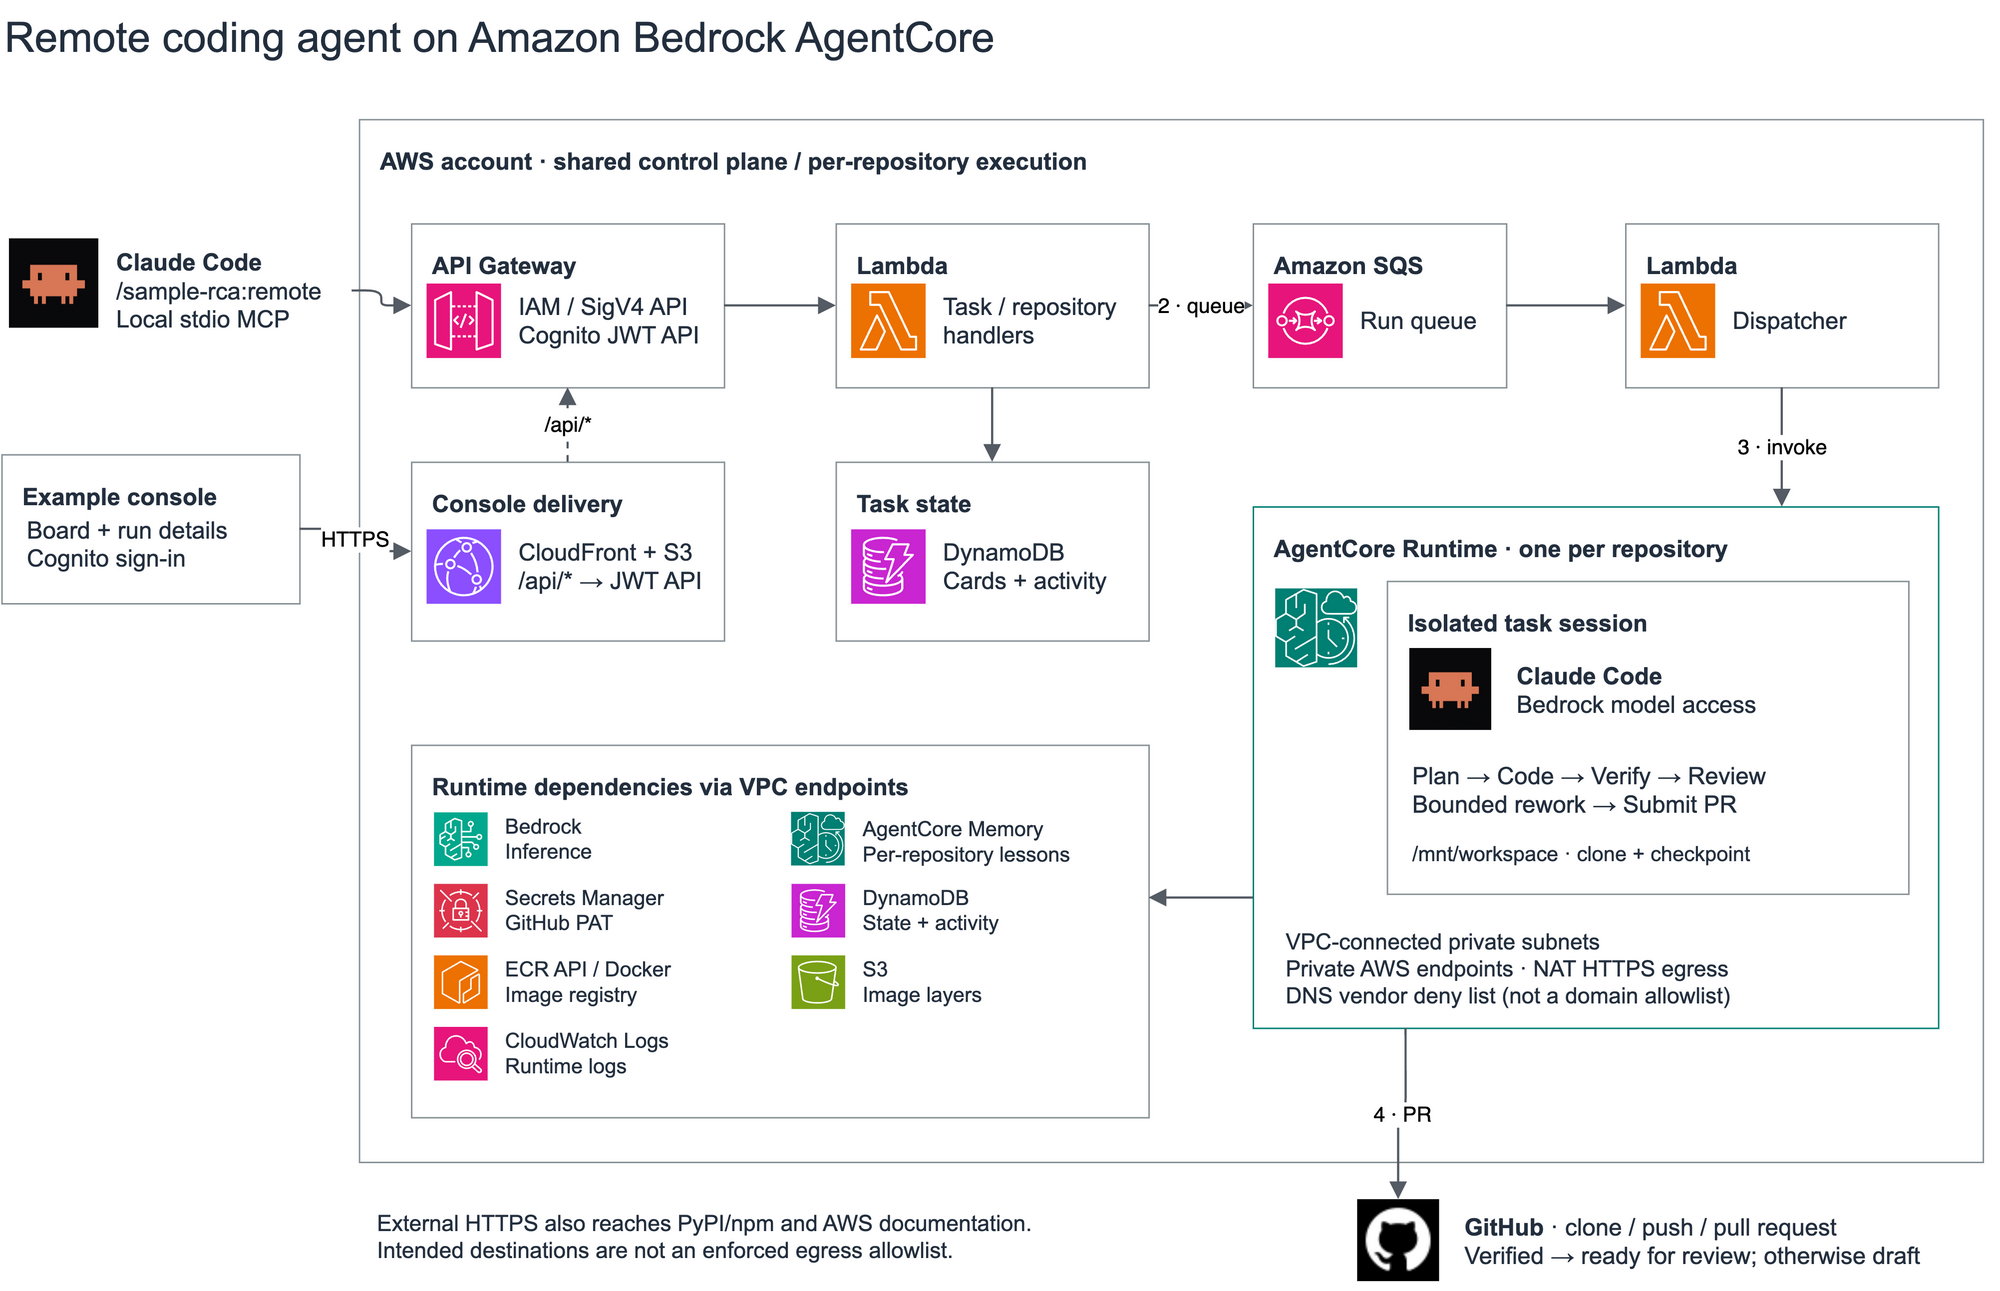
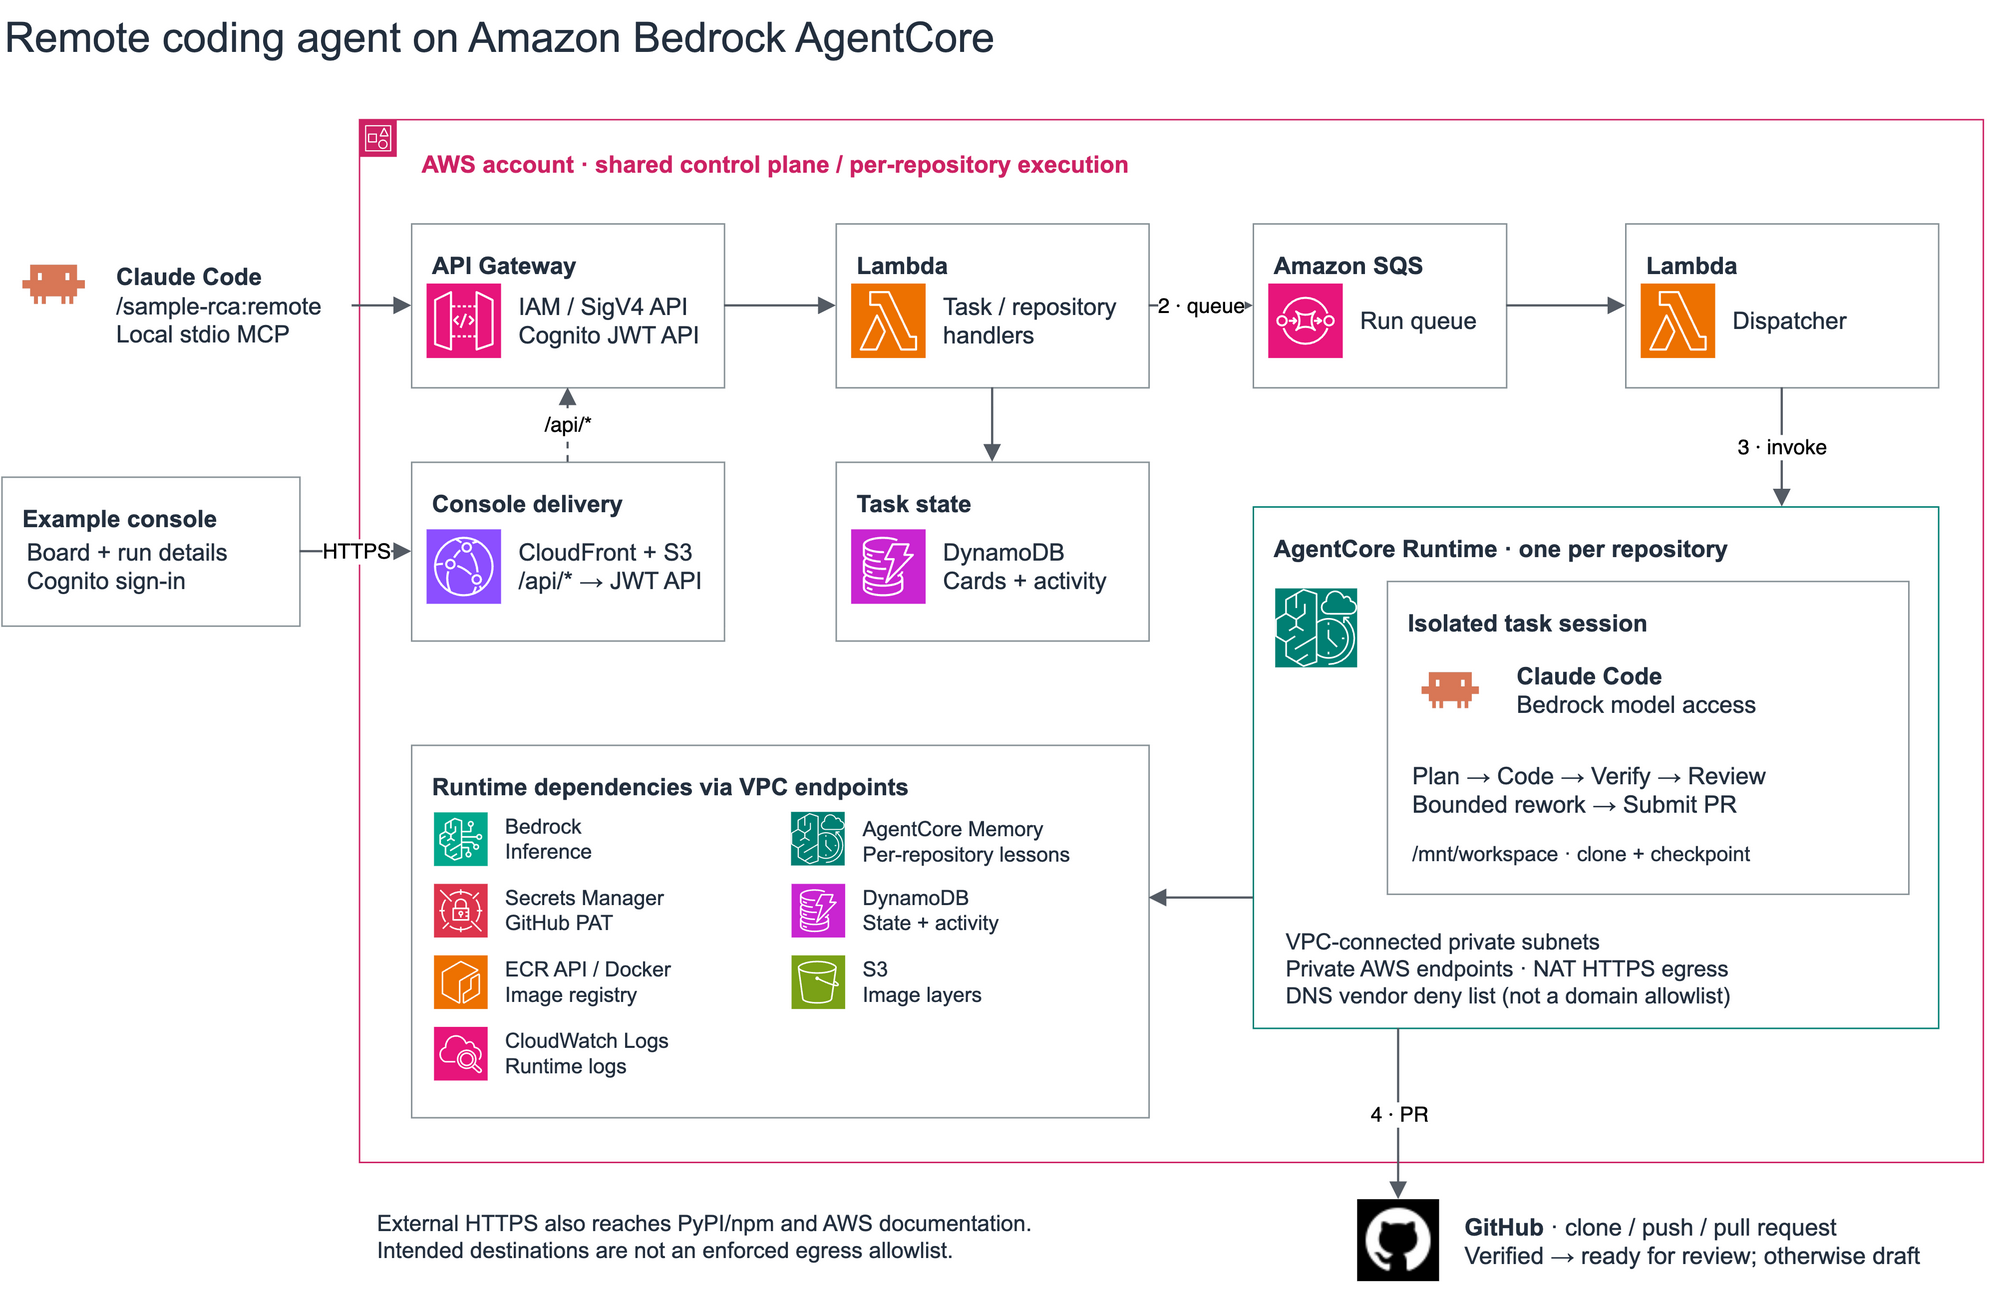
Clarify demo loop and straighten architecture connectors
Show task composition and Add card before dispatch, and separate the completed run from replay. Use the AWS Account group and transparent Claude artwork so the architecture follows the requested visual conventions.

diff --git a/assets/capture-preview.py b/assets/capture-preview.py
@@ -7,6 +7,7 @@ Requires Chrome and ffmpeg. No production code or credentials are modified.
 import functools
 import http.server
 import json
+import shutil
 import subprocess
 import tempfile
 import threading
@@ -16,14 +17,15 @@ from pathlib import Path
 from playwright.sync_api import sync_playwright
 
 ROOT = Path(__file__).resolve().parents[1]
-PROMPT = "Add a regression test for an uncovered edge case in an existing utility."
+TITLE = "Test empty input"
+PROMPT = TITLE + "\nAdd an empty-input regression test.\nUse the existing test runner."
 CONFIG = {"configId": "cfg_preview", "repository": "example/utility-tests", "status": "READY"}
 STAGES = ["PLANNING", "CODING", "VERIFYING", "REVIEWING", "SUBMITTING", "SUCCEEDED"]
 COLUMNS = ["PLANNING", "CODING", "VERIFYING", "VERIFYING", "VERIFYING", "DONE"]
 STEPS = ["checkout", "plan", "code", "verify", "review", "submit"]
 
 
-def capture():
+def capture():  # noqa: C901 - Keep the bounded fixture and its linear capture sequence together.
     handler = functools.partial(http.server.SimpleHTTPRequestHandler, directory=ROOT / "web")
     server = http.server.ThreadingHTTPServer(("127.0.0.1", 0), handler)
     threading.Thread(target=server.serve_forever, daemon=True).start()
@@ -31,7 +33,7 @@ def capture():
     card = {
         "cardId": "card_preview",
         "configId": CONFIG["configId"],
-        "title": PROMPT,
+        "title": TITLE,
         "description": PROMPT,
         "storedColumn": "BACKLOG",
         "column": "BACKLOG",
@@ -46,8 +48,10 @@ def capture():
         "steps": [],
     }
     errors = []
+    created = False
 
     def route_request(route):
+        nonlocal created
         url = route.request.url
         if not url.startswith(origin + "/"):
             errors.append("Unexpected external request: " + url)
@@ -62,7 +66,16 @@ def capture():
         if path == "/api/configurations":
             payload = {"items": [CONFIG]}
         elif path == "/api/cards":
-            payload = {"cards": [card]}
+            if route.request.method == "POST":
+                assert not created
+                assert route.request.post_data_json == {
+                    "configId": CONFIG["configId"],
+                    "description": PROMPT,
+                }
+                created = True
+                payload = card
+            else:
+                payload = {"cards": [card] if created else []}
         elif path.endswith("/move"):
             assert route.request.method == "POST"
             assert route.request.post_data_json == {"column": "PLANNING"}
@@ -95,21 +108,66 @@ def capture():
                 sessionStorage.setItem('rca.expiresAt', '9999999999999');
                 document.addEventListener('DOMContentLoaded', () => {
                     const label = document.createElement('div');
+                    label.id = 'preview-label';
                     label.textContent = 'UI PREVIEW · SYNTHETIC DATA · NOT A LIVE AWS RUN';
                     label.style.cssText = 'position:fixed;bottom:0;left:0;right:0;z-index:9999;background:#232f3e;color:white;padding:12px;text-align:center;font:16px Arial';
                     document.body.append(label);
                 });
             """)
             page.goto(origin + "/#/boards/cfg_preview")
-            page.get_by_role("button", name="Start run", exact=True).wait_for()
+            composer = page.get_by_role("textbox", name="New card", exact=True)
+            composer.wait_for()
+            assert page.locator(".card").count() == 0
             frames = []
 
-            def frame():
+            def frame(seconds=4):
                 dest = Path(tmp) / f"frame-{len(frames):02}.png"
                 page.screenshot(path=str(dest))
                 frames.append(dest)
+                for _ in range(round(seconds * 10) - 1):
+                    duplicate = Path(tmp) / f"frame-{len(frames):02}.png"
+                    shutil.copyfile(dest, duplicate)
+                    frames.append(duplicate)
 
-            frame()
+            def slate(title, detail):
+                page.evaluate(
+                    """({title, detail}) => {
+                    const cover = document.createElement('div');
+                    cover.id = 'preview-slate';
+                    cover.style.cssText = 'position:fixed;inset:0 0 42px;z-index:9998;background:#f6f7fa;display:flex;flex-direction:column;align-items:center;justify-content:center;color:#232f3e;font:24px Arial';
+                    const heading = document.createElement('h1');
+                    heading.textContent = title;
+                    const text = document.createElement('p');
+                    text.textContent = detail;
+                    cover.append(heading, text);
+                    document.body.append(cover);
+                }""",
+                    {"title": title, "detail": detail},
+                )
+
+            slate("Create a coding task", "Type the title and description · Add card · Start run")
+            frame(2)
+            page.locator("#preview-slate").evaluate("(node) => node.remove()")
+            frame(1)
+            # Use the textarea's native resize handle so title and description stay visible.
+            bounds = composer.bounding_box()
+            page.mouse.move(bounds["x"] + bounds["width"] - 3, bounds["y"] + bounds["height"] - 3)
+            page.mouse.down()
+            page.mouse.move(
+                bounds["x"] + bounds["width"] - 3, bounds["y"] + bounds["height"] + 90, steps=8
+            )
+            page.mouse.up()
+            composer.focus()
+            for start in range(0, len(PROMPT), 2):
+                composer.press_sequentially(PROMPT[start : start + 2])
+                frame(0.1)
+            assert composer.input_value() == PROMPT
+            frame(2)
+            page.get_by_role("button", name="Add card", exact=True).click()
+            page.get_by_role("button", name="Start run", exact=True).wait_for()
+            assert created and composer.input_value() == ""
+            assert page.locator(".card-title").inner_text() == TITLE
+            frame(2)
             page.get_by_role("button", name="Start run", exact=True).click()
             for i, (status, column) in enumerate(zip(STAGES, COLUMNS, strict=True)):
                 task.update(
@@ -147,6 +205,12 @@ def capture():
                 == task["prUrl"]
             )
             frame()
+            slate(
+                "Task complete",
+                "The next loop creates a new example. It does not move this task back to Backlog.",
+            )
+            frame(5)
+            page.locator("#preview-slate").evaluate("(node) => node.remove()")
             task.update(status="SUCCEEDED_UNVERIFIED")
             task["verifyResult"].update(
                 verified=False,
@@ -159,7 +223,7 @@ def capture():
             page.get_by_text(
                 "No verification command ran; the pull request stays a draft.", exact=True
             ).wait_for()
-            frame()
+            page.screenshot(path=str(ROOT / "assets/console-draft.png"))
             assert not errors, errors
             browser.close()
             subprocess.run(
@@ -169,7 +233,7 @@ def capture():
                     "-loglevel",
                     "error",
                     "-framerate",
-                    "1/4",
+                    "10",
                     "-i",
                     str(Path(tmp) / "frame-%02d.png"),
                     "-filter_complex",

diff --git a/tests/test_docs.py b/tests/test_docs.py
@@ -610,8 +610,11 @@ def test_the_readme_diagram_names_every_vpc_endpoint() -> None:
     )
     assert all(_ENDPOINT_DIAGRAM_WORDS[member] in labels for member in members)
     assert all(name in cells for name in ("claude", "github", "runtime"))
+    assert "grIcon=mxgraph.aws4.group_account;" in cells["account"].get("style", "")
     for cell in cells.values():
         if cell.get("edge") == "1":
+            assert "edgeStyle=none;" in cell.get("style", "")
+            assert cell.find("mxGeometry/Array") is None
             assert cell.get("source") in cells and cell.get("target") in cells
             assert cell.find("mxGeometry").get("relative") == "1"
 

diff --git a/assets/README.md b/assets/README.md
@@ -6,11 +6,15 @@
 It captures the unmodified console from this branch using browser-intercepted API responses.
 The persistent on-screen label makes the distinction visible even when the GIF is shared alone.
 The example repository, task, verification evidence, and PR URL are fixtures. No AWS or GitHub
-requests are made. There is no measured task duration; each captured state displays for four seconds.
+requests are made. There is no measured task duration. Typing plays at 10 frames per second,
+stages pause for four seconds, and the ending holds for five seconds before replaying.
 
-The preview shows one task in Backlog, starting through the actual **Start run** control,
-then Planning, Coding, Verifying, Reviewing, Submitting, and Done. The final frames show
-the run details with an illustrative test result and a separate unverified draft example.
+The preview starts on an empty board and types a title followed by its description into the
+actual composer (the first line becomes the title). It clicks **Add card**, then **Start run**,
+and follows Planning, Coding, Verifying, Reviewing, Submitting, and Done. The final frames show
+the run details with an illustrative test result. A “Task complete” screen separates the ending
+from the new-task introduction on replay; it does not depict moving a finished card to Backlog.
+The [unverified draft example](console-draft.png) is separate from this successful sequence.
 Reviewing and Submitting stay in the Verifying column. It does not claim to show a real PR diff.
 
 Recreate it from the repository root with Chrome and ffmpeg installed:
@@ -19,7 +23,8 @@ Recreate it from the repository root with Chrome and ffmpeg installed:
 uv run --with playwright==1.58.0 assets/capture-preview.py
 ```
 
-The capture script asserts rendered stages, the board-column mapping, and the result link.
+The capture script asserts typed content, the Add card request, the created title,
+rendered stages, the board-column mapping, and the result link.
 It blocks external browser requests and fails on JavaScript errors or unexpected API calls.
 The fixture is one bounded test addition using the repository's existing test runner;
 its illustrative verification command is `npm test`. `console-preview.png` is the static fallback.
@@ -47,6 +52,8 @@ Before calling this an end-to-end demo, use an approved disposable AWS account a
 export, suitable for GitHub light and dark themes. Service dependencies share one compact
 endpoint group; connectors describe the main request path, not every IAM or lifecycle operation.
 Lambda is outside the runtime's VPC connectivity boundary. GitHub is outside the AWS account.
+All connectors are straight. The account uses the native AWS Account group border;
+the Claude Code artwork's black background is removed for transparent placement.
 
 AWS service icons use draw.io's AWS4 library. Runtime and Claude Code/GitHub reference assets
 come from slide 10 of the owner-supplied **Coding Agents on Amazon Bedrock AgentCore** deck.
